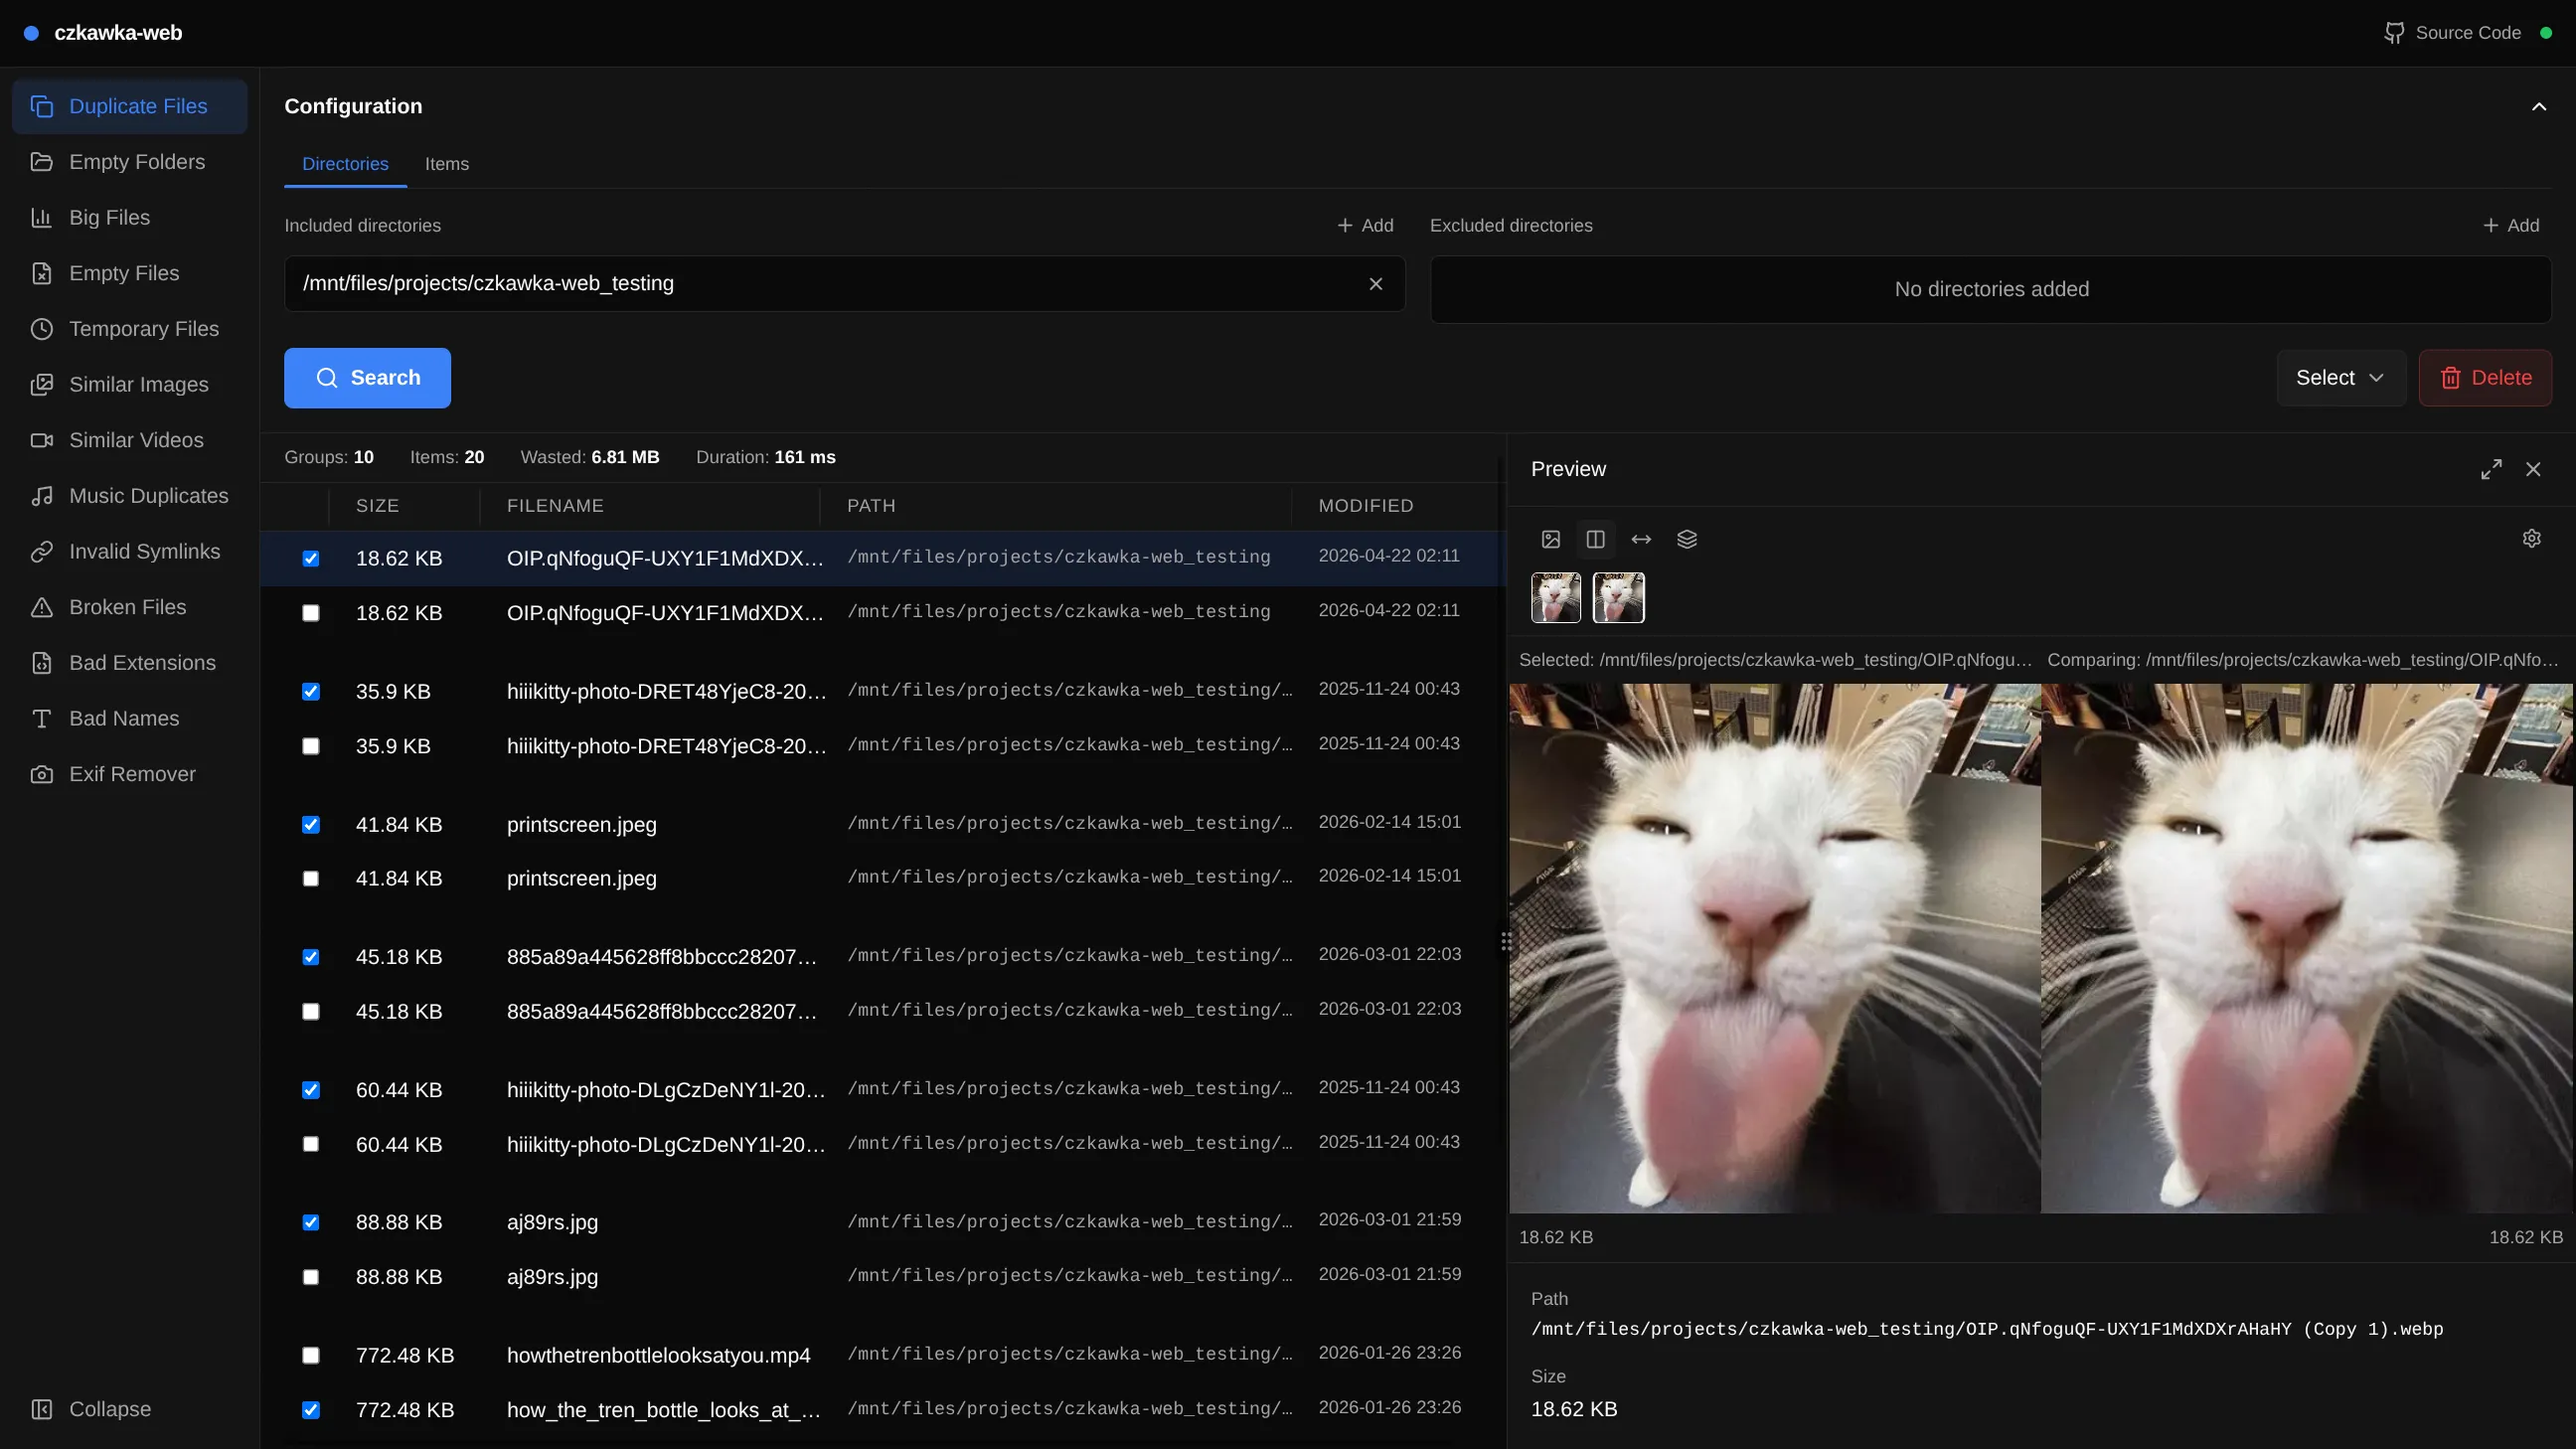
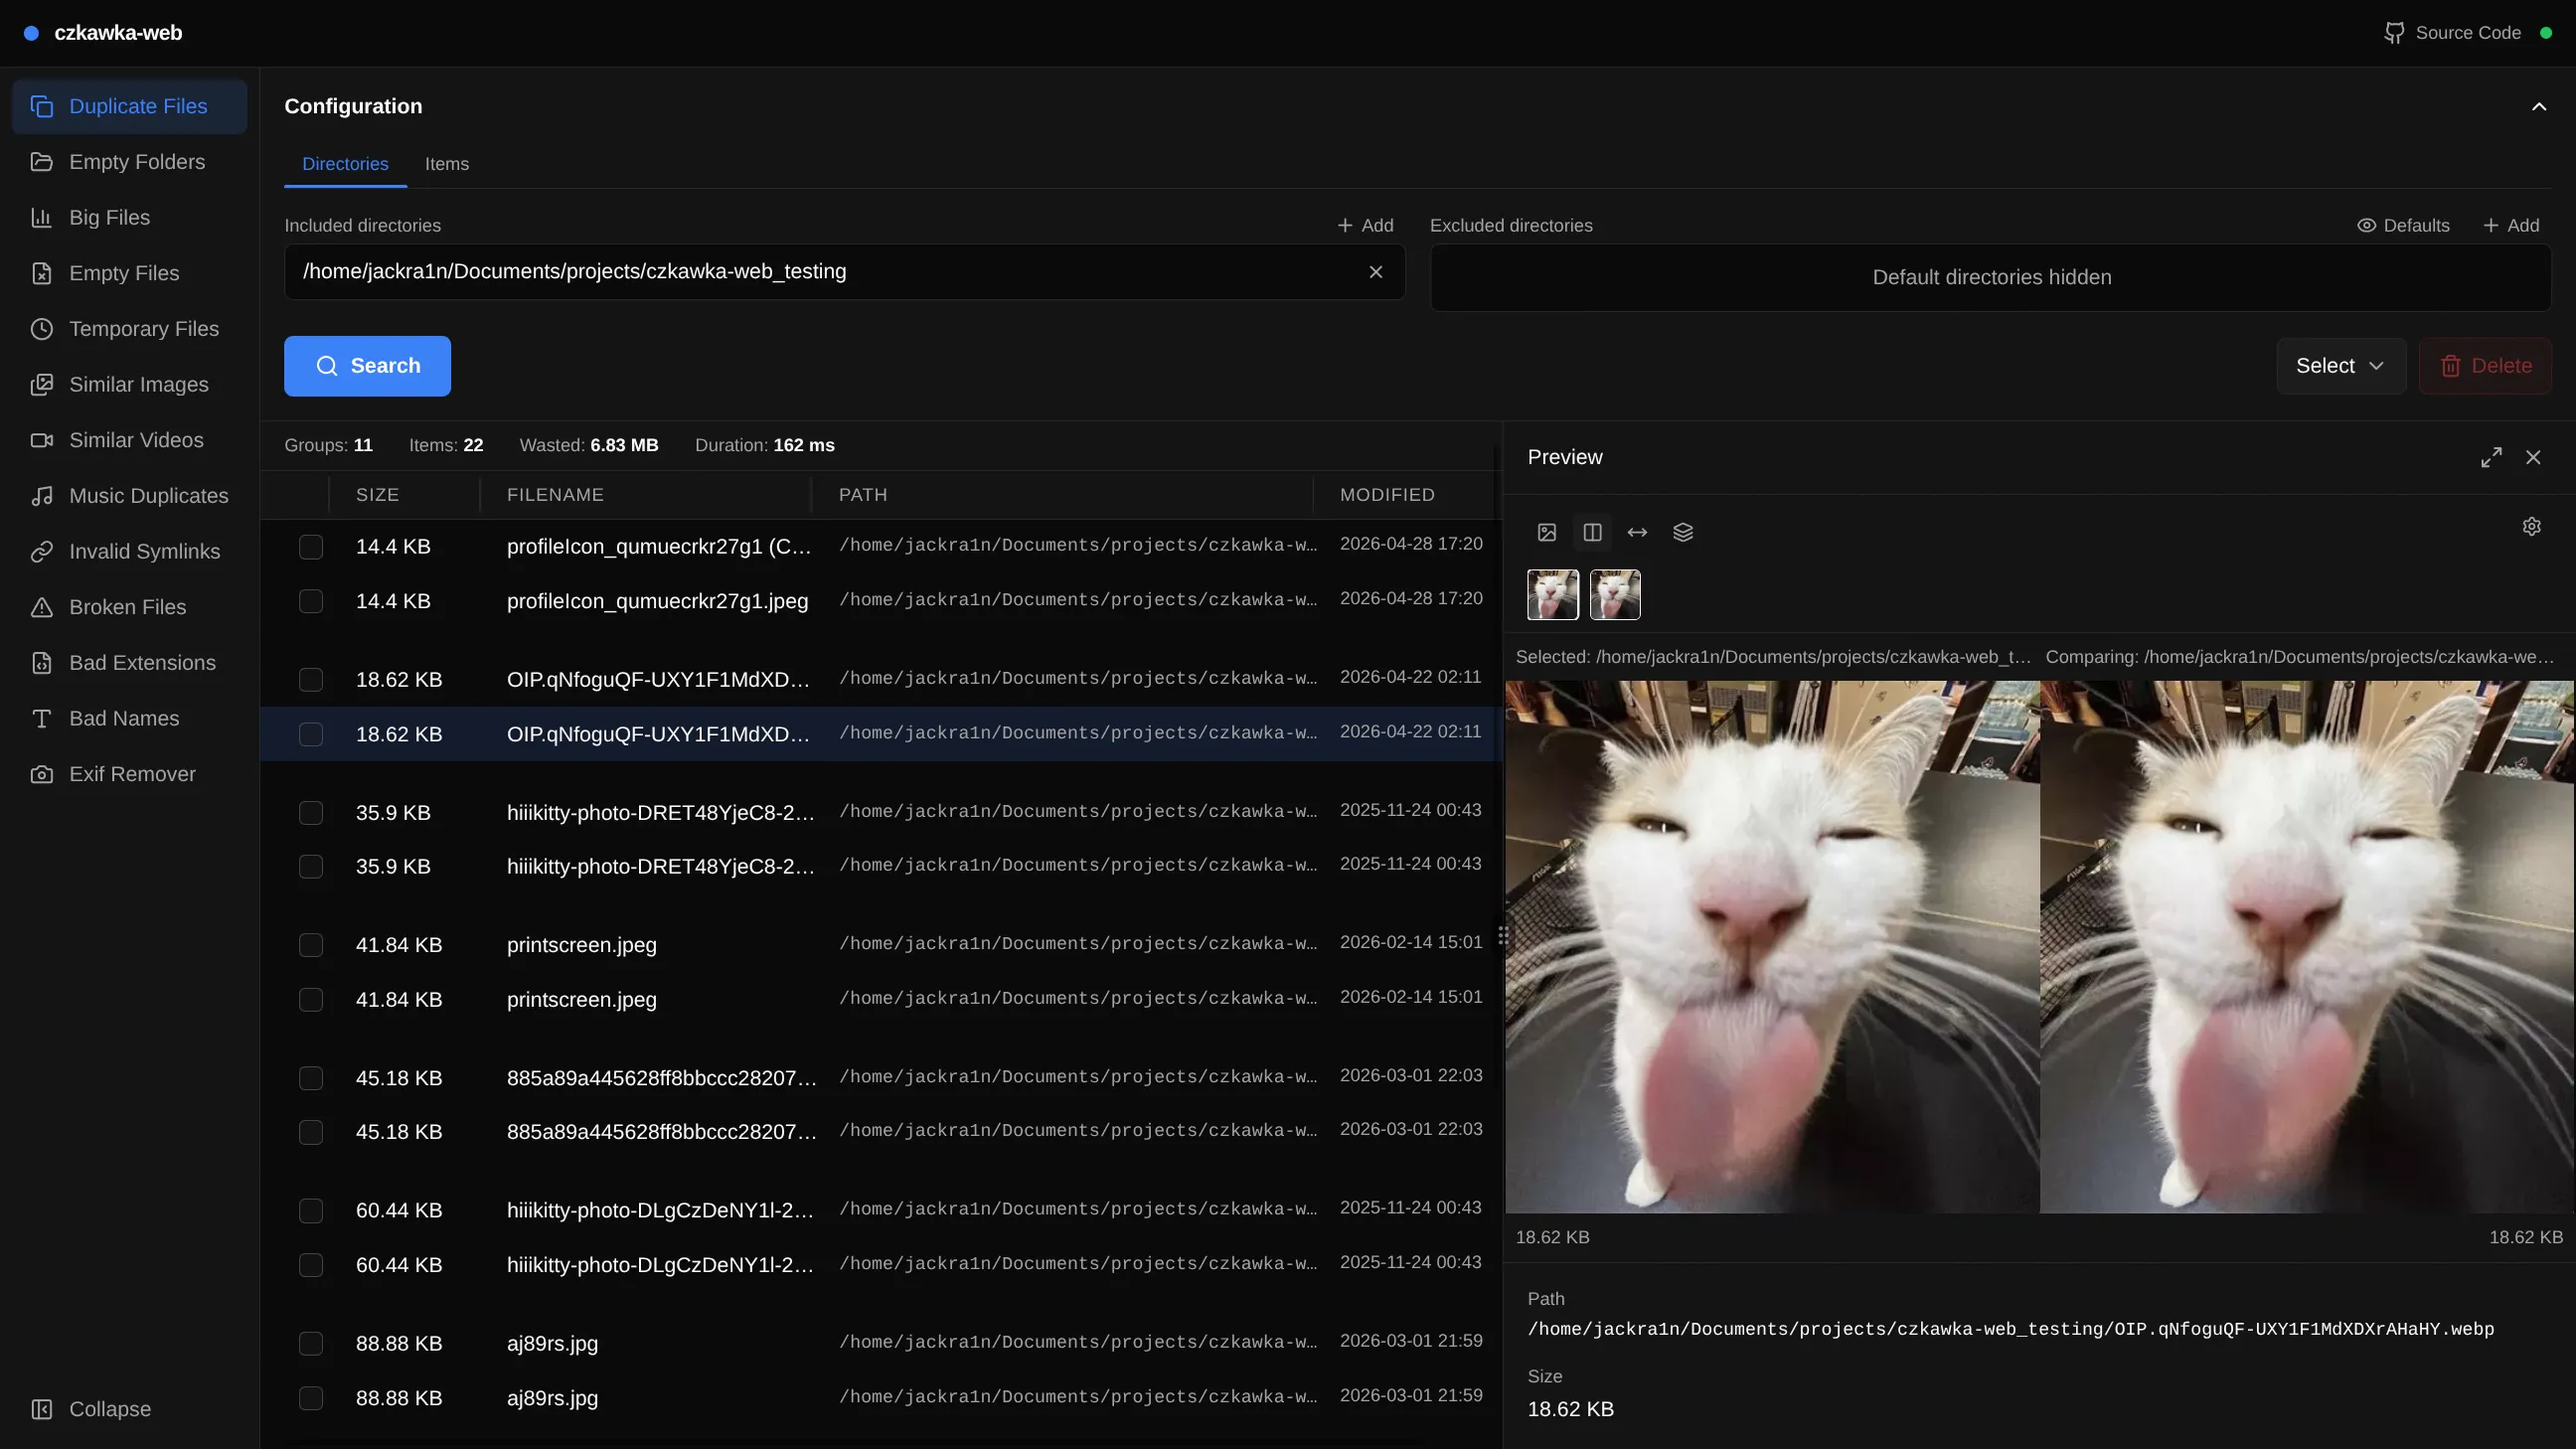
docs: update project documentation with image previews and feature highlights

diff --git a/README.md b/README.md
@@ -10,11 +10,16 @@ I built this because I wanted to run Czkawka on my server, but I needed a good U
 
 ![Czkawka Web Preview](docs/images/czkawka-web_preview.webp)
 
+Image swipe comparison mode:
+![Czkawka Web Image Swipe Preview](docs/images/czkawka-web_swipe-image-compare.webp)
+
 ## Features
 
-* **All Czkawka scans:** Supports every scan type that Czkawka offers.
-* **Image comparisons:** Side-by-side, swipe, and onion skin comparison modes.
-* **Docker deployment:** Easy deployment on headless servers via Docker.
+- **All Czkawka scans:** Supports every scan type that Czkawka offers.
+- **Image comparisons:** Side-by-side, swipe, and onion skin comparison modes.
+- **Fullscreen preview:** View images and videos in fullscreen mode.
+- **Keyboard navigation:** Navigate through files using arrow keys and mark duplicates with space.
+- **Docker deployment:** Easy deployment on headless servers via Docker.
 
 ## Docker
 
@@ -58,12 +63,13 @@ docker compose up -d
 ```
 
 ## Tech Stack
+
 This project is built with an emphasis on zero bloat and high performance.
 
-* **Backend:** [Rust](https://www.rust-lang.org/) + [Axum](https://github.com/tokio-rs/axum)
-* **Frontend:** [SvelteKit](https://kit.svelte.dev/)
-* [Bun](https://bun.sh/)
-* [Mise](https://mise.jdx.dev/)
+- **Backend:** [Rust](https://www.rust-lang.org/) + [Axum](https://github.com/tokio-rs/axum)
+- **Frontend:** [SvelteKit](https://kit.svelte.dev/)
+- [Bun](https://bun.sh/)
+- [Mise](https://mise.jdx.dev/)
 
 ## Development / Local Build
 
@@ -83,4 +89,5 @@ mise run docker
 ```
 
 ## Acknowledgments
+
 A huge thanks to [qarmin](https://github.com/qarmin) for creating and maintaining [czkawka](https://github.com/qarmin/czkawka). This project wouldn't be possible without the incredible work put into that amazing project.
